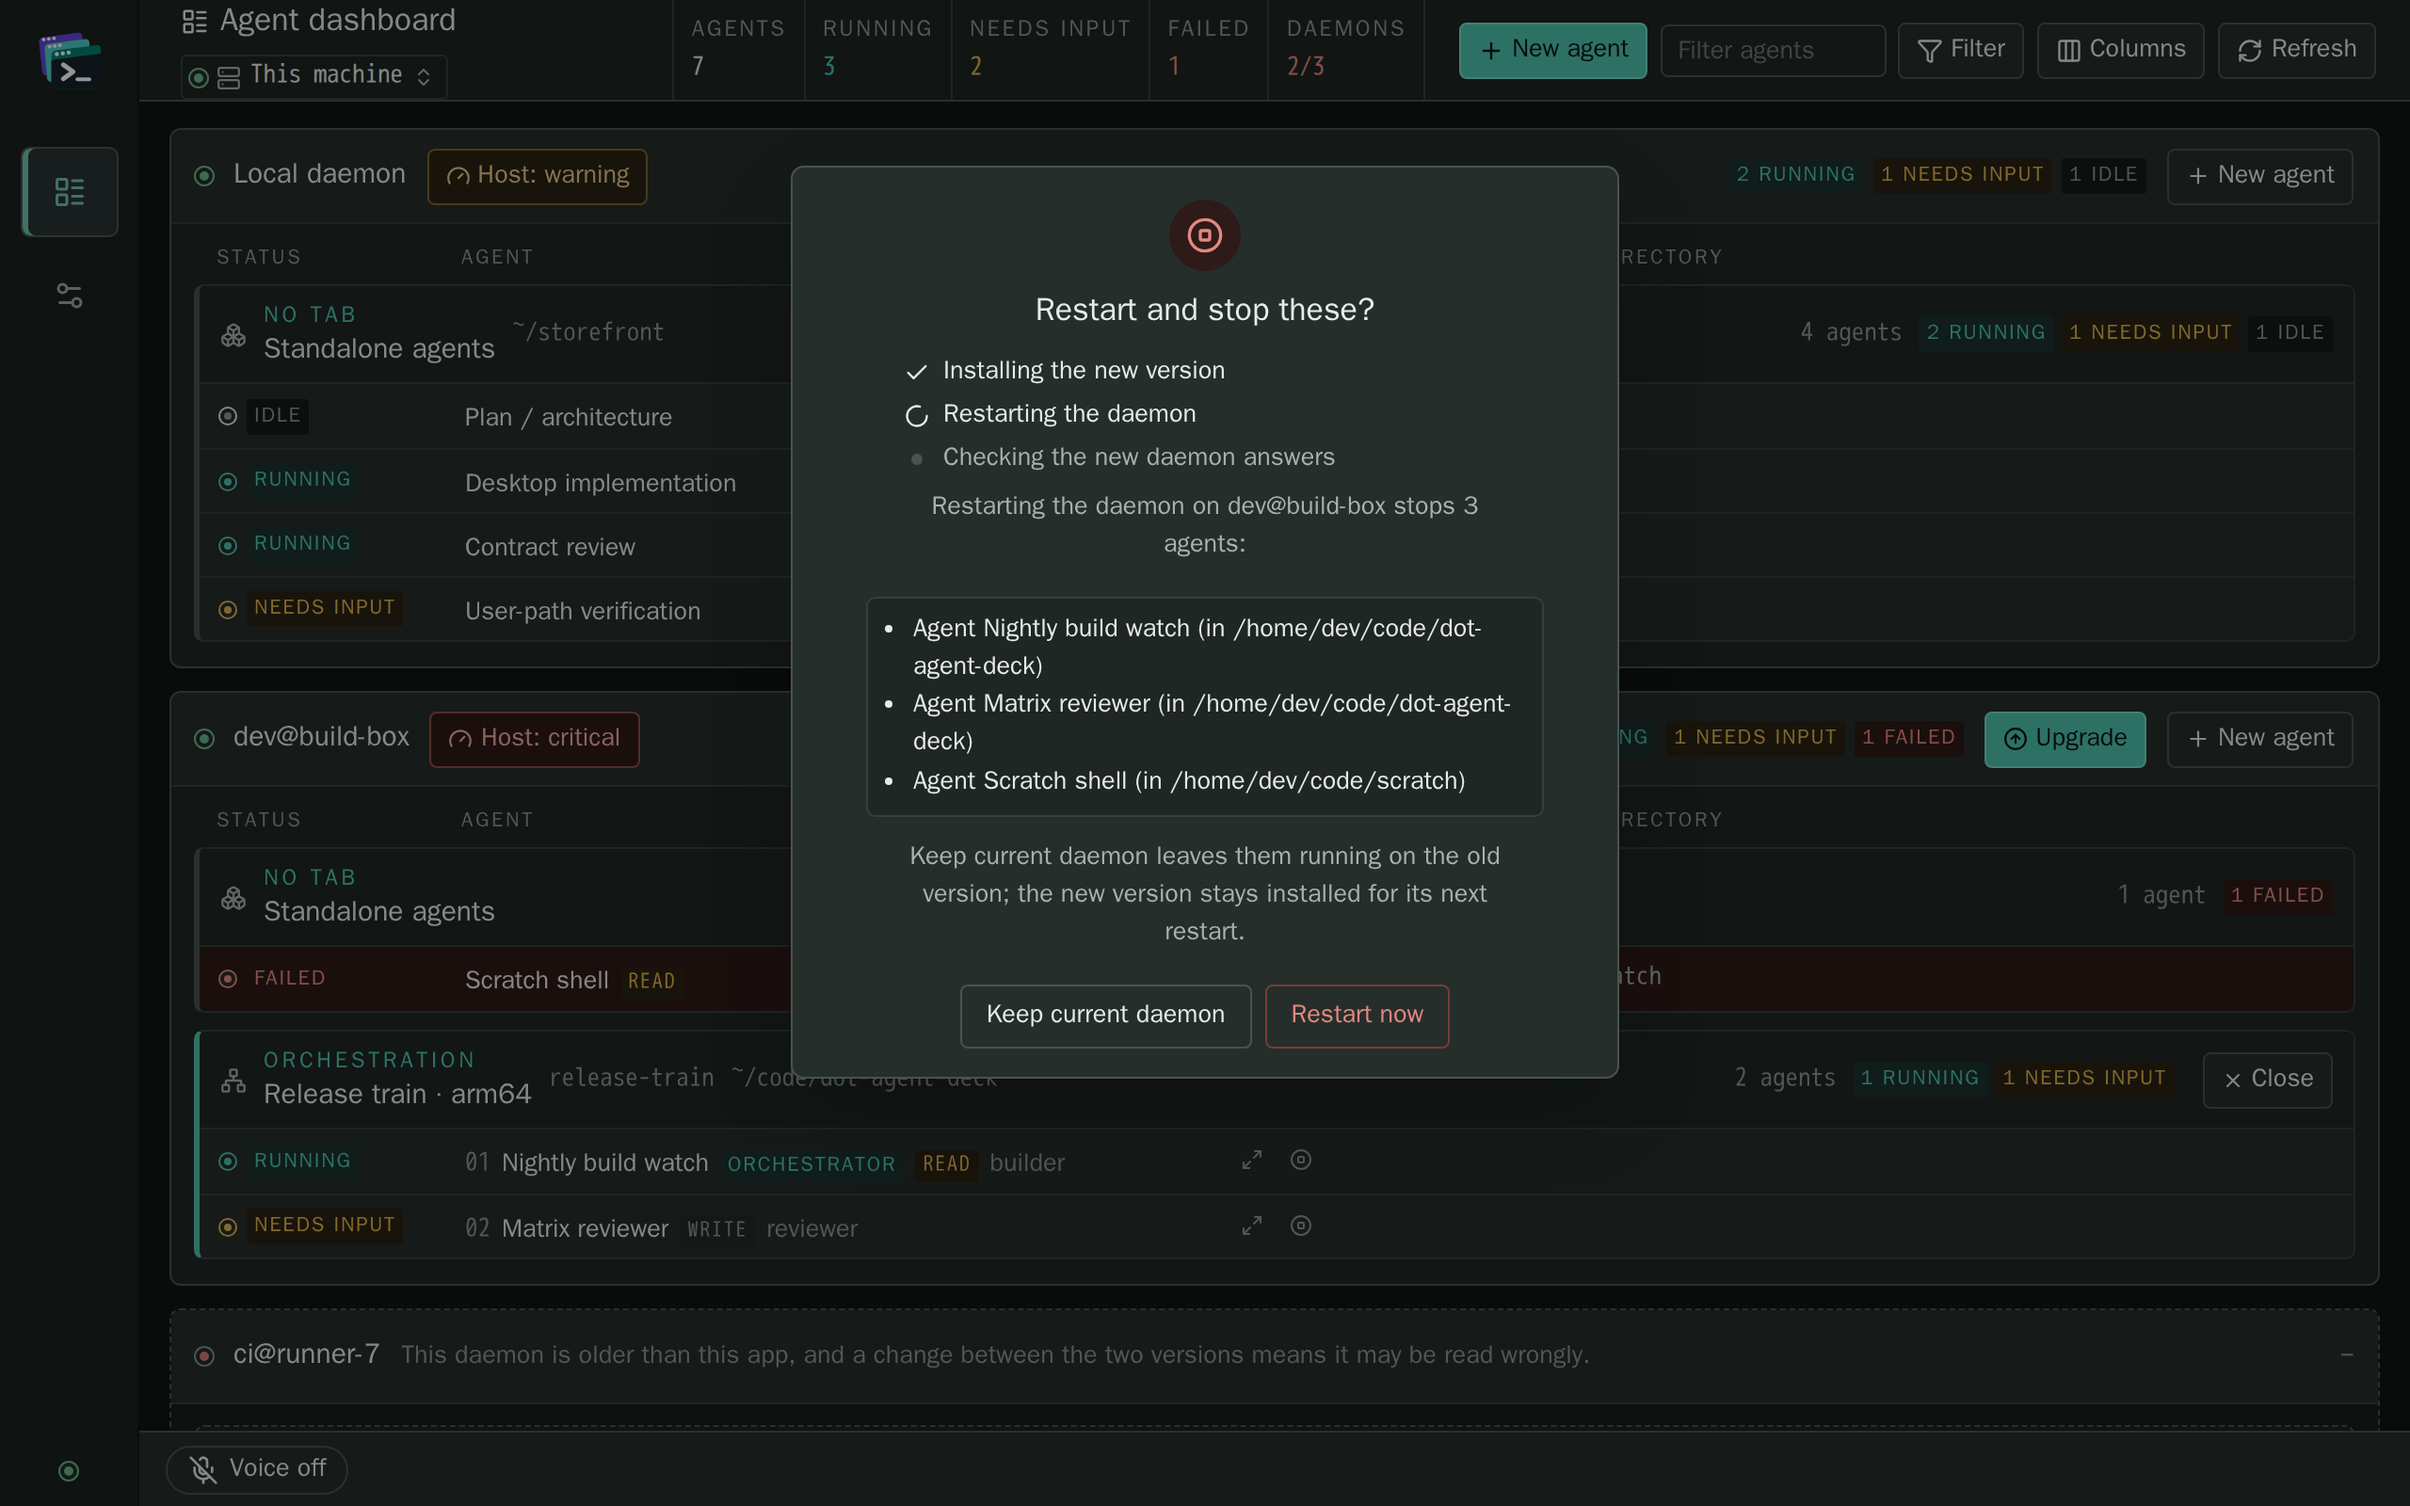
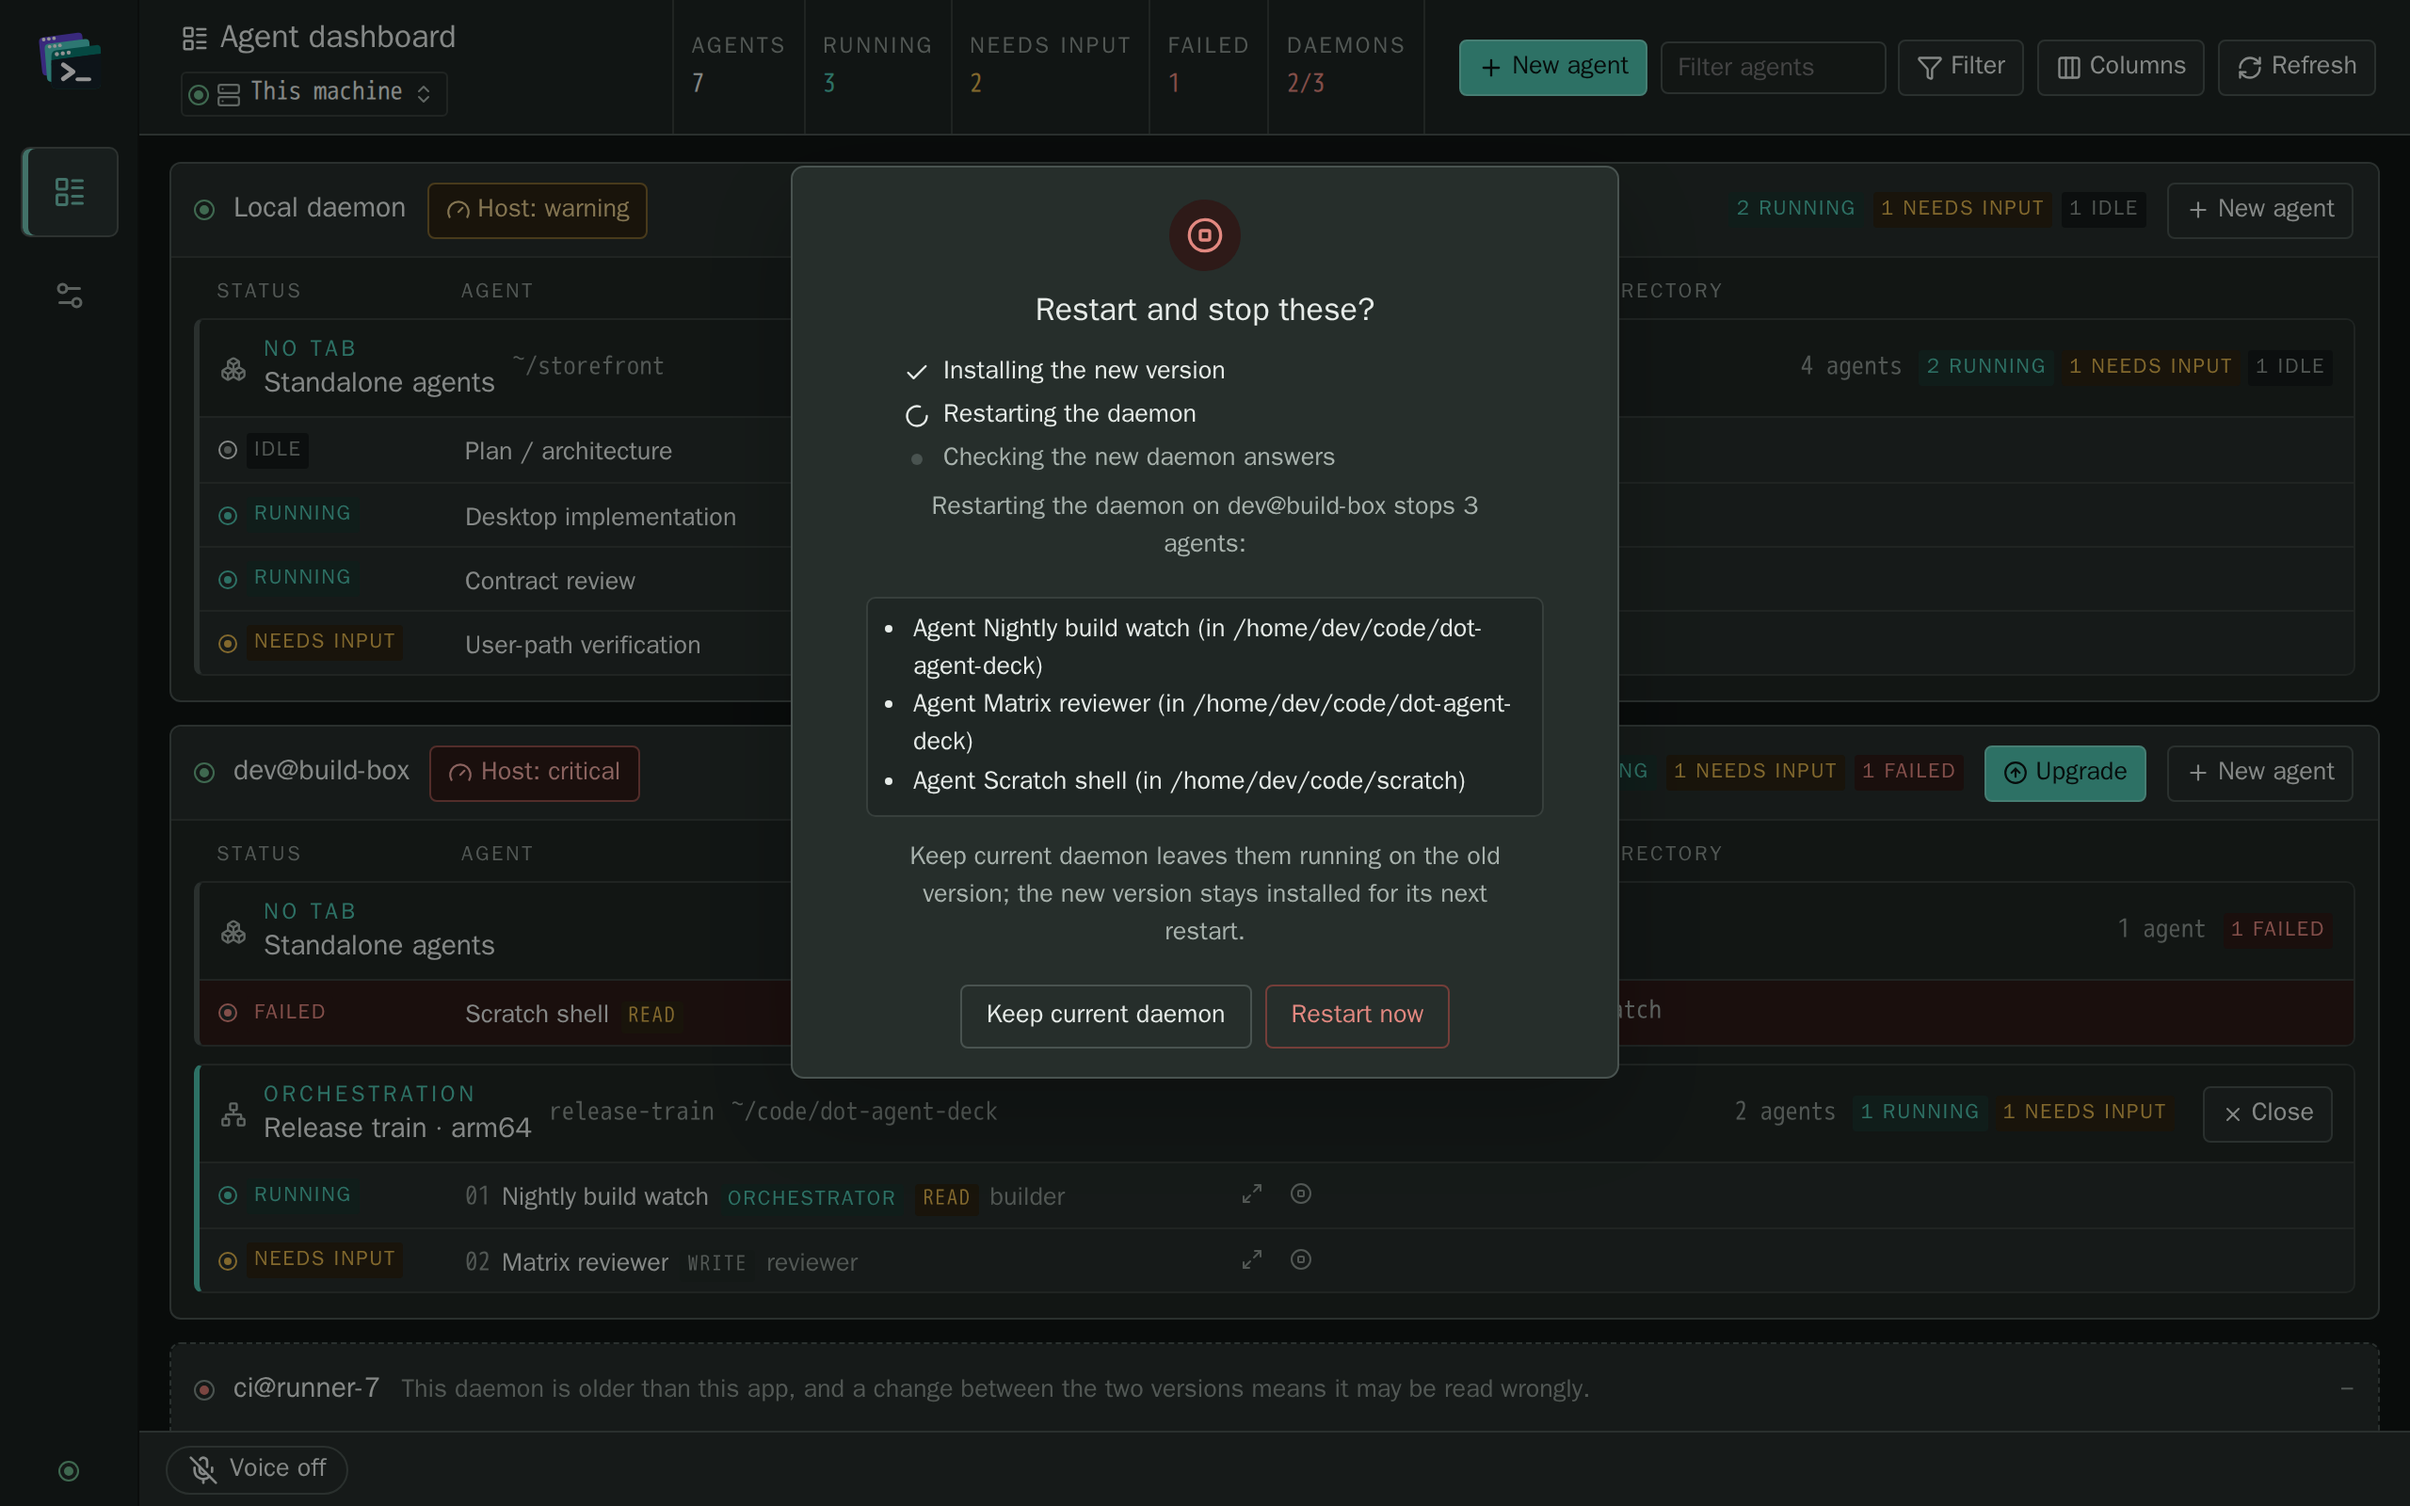
fix(desktop): let the top bar and close dialog hold the larger text (#2312)
Review findings on PR #2317 and a red CI browser tier:

- The Deck selector's state line is a fourth line in the top bar and no
  longer fit 72px. The bar is now min-height 72px, so it grows while the
  note shows; deck-selector.spec.ts measures that the stack stays inside.
- typeScale.test.ts matched only a value's prefix, so a calc() below the
  floor could pass. It now matches the whole value: a step, or a step
  times --voice-on-text-scale.
- confirm-worktree-layout.spec.ts failed in CI, whose wider fallback font
  wraps the close dialog's three buttons onto two rows at 640x320. The
  dialog body now shrinks and scrolls like the worktree preview, so the
  buttons stay on screen.

Two docs screenshots regenerated (daemon-upgrade, voice-pages).

diff --git a/desktop/src/styles.css b/desktop/src/styles.css
@@ -493,10 +493,14 @@ code, kbd, .instrument strong, .agent-instruments strong, time { font-family: "J
 .connection-lamp.connection-error { background: var(--status-error); }
 .connection-lamp.connection-loading { background: var(--status-warn); }
 
-.topbar { height: 72px; padding: 0 18px 0 22px; position: sticky; z-index: 30; top: 0; display: grid; grid-template-columns: minmax(210px, 1fr) auto minmax(244px, auto); align-items: stretch; gap: 18px; border-bottom: 1px solid var(--line-strong); background: rgb(var(--paper-rgb) / .97); }
+/* `min-height`, not `height` (issue #2312): at the type scale's sizes the Deck
+   selector's state line, a fourth line under the title, branch and selector,
+   does not fit 72px, so the bar grows while it shows rather than spilling the
+   stack over its edges. Without the note it is the same 72px bar. */
+.topbar { min-height: 72px; padding: 0 18px 0 22px; position: sticky; z-index: 30; top: 0; display: grid; grid-template-columns: minmax(210px, 1fr) auto minmax(244px, auto); align-items: stretch; gap: 18px; border-bottom: 1px solid var(--line-strong); background: rgb(var(--paper-rgb) / .97); }
 .repo-context { min-width: 0; display: flex; flex-direction: column; justify-content: center; }
 /* PRD #1666 part 3, round 5-wake (Q6): a held orchestrator, across the whole bar, below its instruments. */
-.topbar.with-attention { height: auto; grid-template-rows: 72px auto; }
+.topbar.with-attention { grid-template-rows: minmax(72px, auto) auto; }
 .deck-attention { grid-column: 1 / -1; padding: 0 0 8px; color: var(--amber-ink); font-size: var(--text-lg); font-weight: 600; overflow-wrap: anywhere; }
 .repo-line, .branch-line { display: flex; align-items: center; min-width: 0; }
 .repo-line { gap: 6px; font-size: var(--text-xl); }
@@ -1153,6 +1157,10 @@ code, kbd, .instrument strong, .agent-instruments strong, time { font-family: "J
 .confirm-dialog.has-worktree-preview { display: flex; flex-direction: column; max-height: 100%; overflow-y: auto; }
 .confirm-dialog.has-worktree-preview > * { flex-shrink: 0; }
 .confirm-dialog .worktree-close-preview { min-height: 0; flex-shrink: 1; overflow-y: auto; }
+/* Issue #2312: at the type scale's sizes the three buttons can wrap onto two
+   rows, and in a short window the preview shrinking to nothing no longer leaves
+   them room. The body scrolls too, so the buttons stay on screen. */
+.confirm-dialog.has-worktree-preview > p { min-height: 0; flex-shrink: 1; overflow-y: auto; }
 /* PRD #1487 M5 — the Upgrade / Replace daemon dialog: the confirm card, plus its stages and stop lists. */
 .upgrade-dialog { width: min(440px, 100%); }
 .upgrade-icon { width: 38px; height: 38px; margin: 2px auto 10px; display: grid; place-items: center; border-radius: 50%; color: var(--green); background: var(--green-soft); }

diff --git a/desktop/e2e/deck-selector.spec.ts b/desktop/e2e/deck-selector.spec.ts
@@ -270,6 +270,17 @@ test.describe("the Deck selector's state line", () => {
     await expect(state).toBeVisible();
     expect((await state.innerText()).trim().length, "the state line rendered no text").toBeGreaterThan(0);
 
+    // Issue #2312: the state line is a fourth line in the top bar, and at the
+    // type scale's sizes it does not fit the bar's resting 72px. The bar grows
+    // to hold it instead of the stack spilling over its top and bottom edges.
+    const fit = await page.evaluate(() => {
+      const bar = document.querySelector<HTMLElement>(".topbar")!.getBoundingClientRect();
+      const stack = [...document.querySelectorAll<HTMLElement>(".topbar .repo-context > *")].map((node) => node.getBoundingClientRect());
+      return { barTop: bar.top, barBottom: bar.bottom, top: Math.min(...stack.map((box) => box.top)), bottom: Math.max(...stack.map((box) => box.bottom)) };
+    });
+    expect(fit.top, "the top bar's title stack starts above the bar").toBeGreaterThanOrEqual(fit.barTop - 0.5);
+    expect(fit.bottom, "the state line runs below the top bar").toBeLessThanOrEqual(fit.barBottom + 0.5);
+
     // Not blanked: the daemon is still named, the selector still opens, and the
     // rest of the shell is still there.
     await expect(page.getByTestId("deck-selector-current")).toHaveText("vf@build-box.example.com");

diff --git a/desktop/src/lib/typeScale.test.ts b/desktop/src/lib/typeScale.test.ts
@@ -31,7 +31,12 @@ describe("the app's type scale", () => {
   it("sizes every rule from a step rather than a one-off value", () => {
     const sizes = [...css.matchAll(/font-size:\s*([^;}]+)/g)].map((match) => match[1].trim());
     expect(sizes.length).toBeGreaterThan(0);
-    const oneOff = sizes.filter((size) => !/^(calc\()?var\(--text-(xs|sm|base|lg|xl|2xl)\)/.test(size));
+    // The whole value: a bare step, or a step times the voice row's own scale
+    // and nothing else, so `calc(var(--text-base) * 0.1)` cannot slip under
+    // the floor by starting with a step.
+    const step = "var\\(--text-(?:xs|sm|base|lg|xl|2xl)\\)";
+    const allowed = new RegExp(`^(?:${step}|calc\\(${step} \\* var\\(--voice-on-text-scale\\)\\))(?: !important)?$`);
+    const oneOff = sizes.filter((size) => !allowed.test(size));
     expect(oneOff).toEqual([]);
   });
 });
